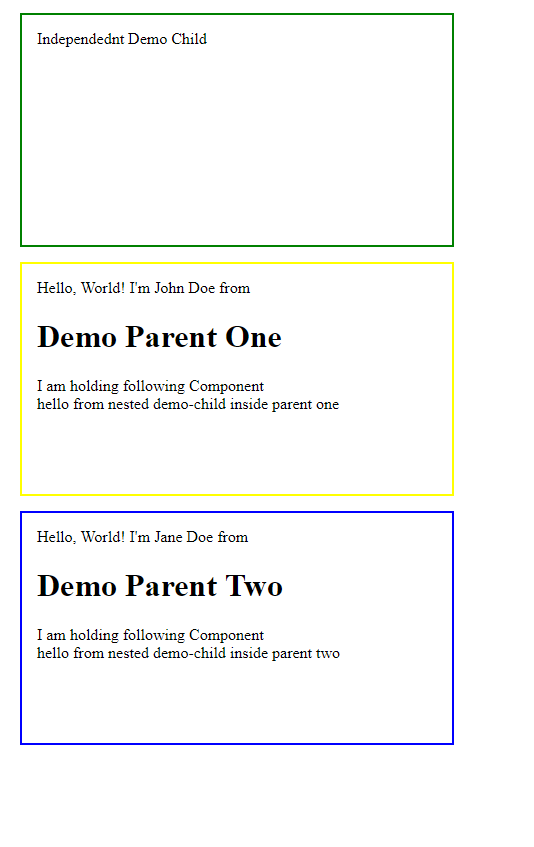
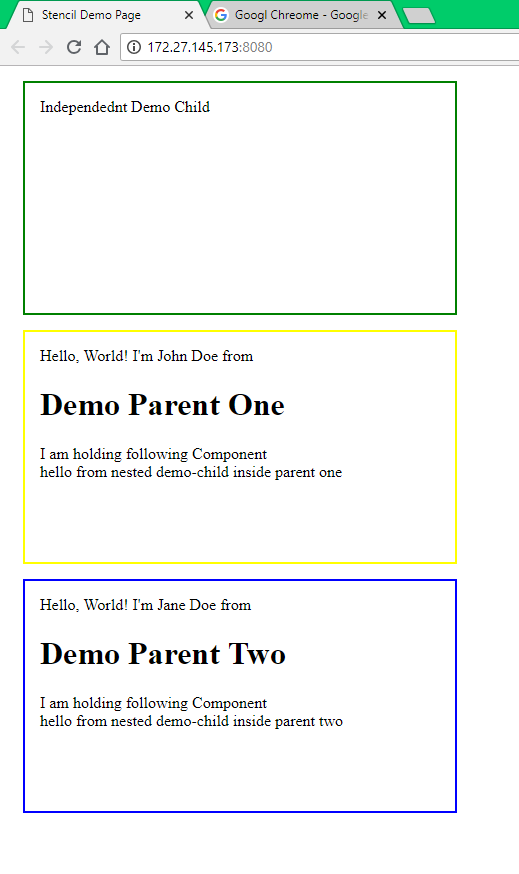
Corrected README

Changed region(s): [[0.0, 0.0, 1.0, 0.9209]]

diff --git a/README.md b/README.md
@@ -22,8 +22,10 @@ We have 3 components here:
 
 ## Results
 
+### Chrome
 ![Chrome Result](https://github.com/rahulbhooteshwar/stencil_ie_issue/blob/master/docs/result_chrome.PNG "Chrome Result")
 
+### IE
 ![IE Result](https://github.com/rahulbhooteshwar/stencil_ie_issue/blob/master/docs/result_ie.PNG "IE Result")
 
 
